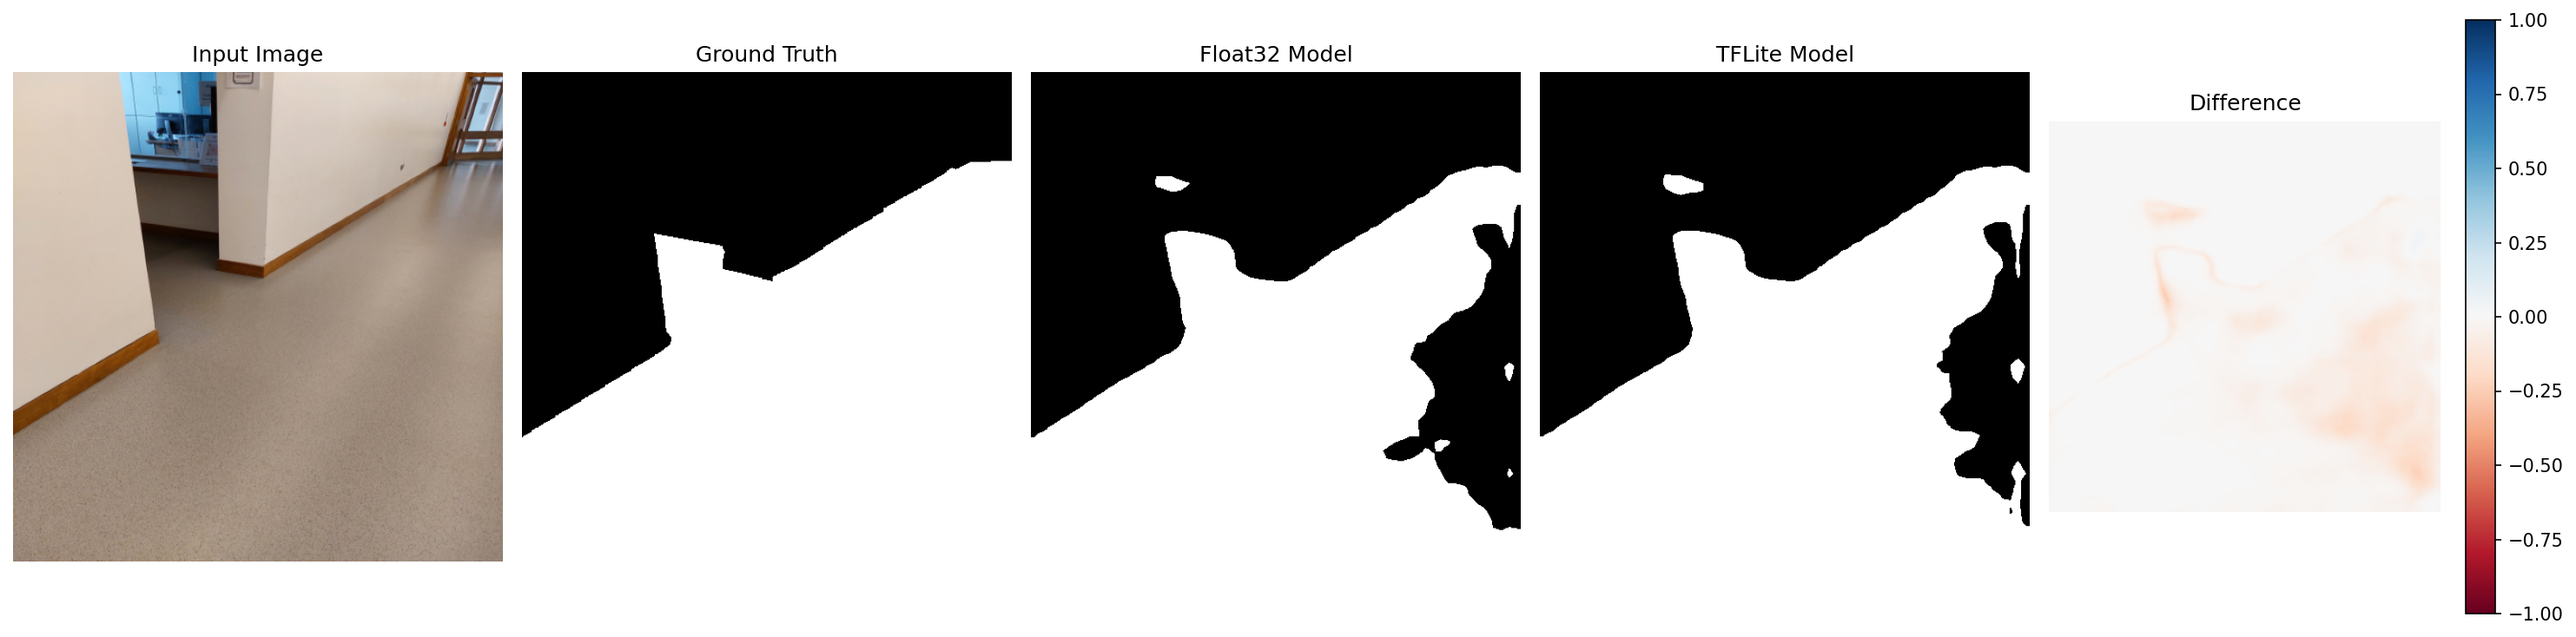
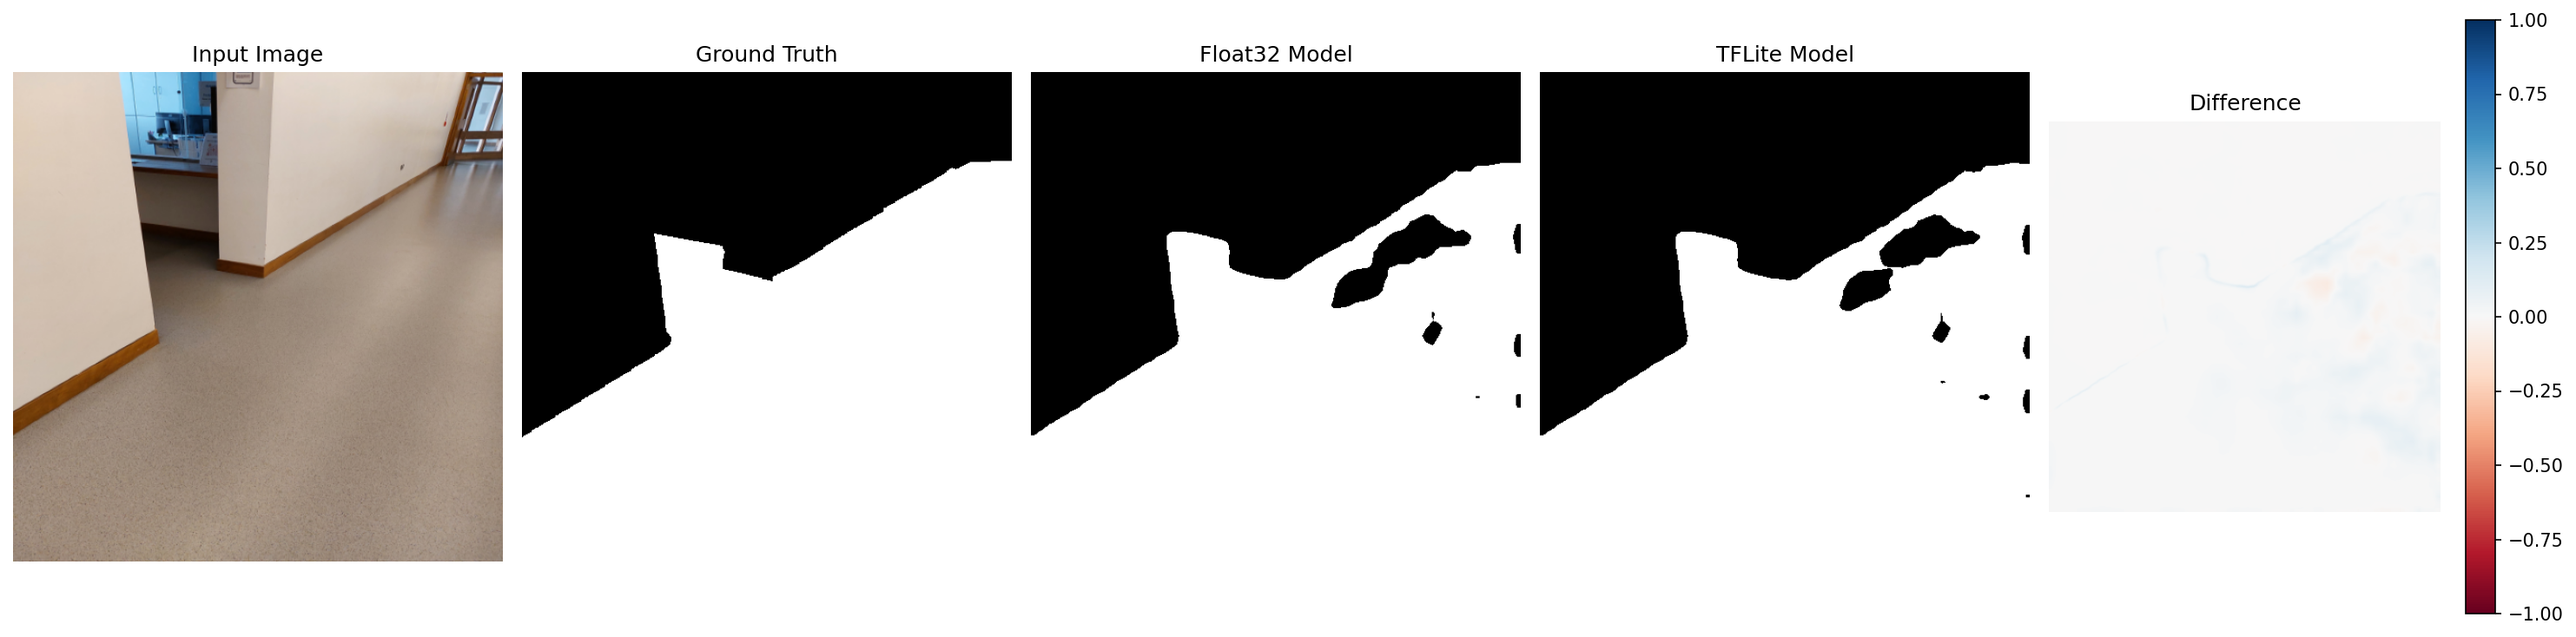
result image added

diff --git a/convert_to_tflite.py b/convert_to_tflite.py
@@ -1,7 +1,7 @@
 import tensorflow as tf
 
 # 최상의 Keras 모델 로드
-model = tf.keras.models.load_model('best_floor_segmentation_model.keras')
+model = tf.keras.models.load_model('best_floor_segmentation_model_mobilenet.keras')
 converter = tf.lite.TFLiteConverter.from_keras_model(model)
 
 #############################
